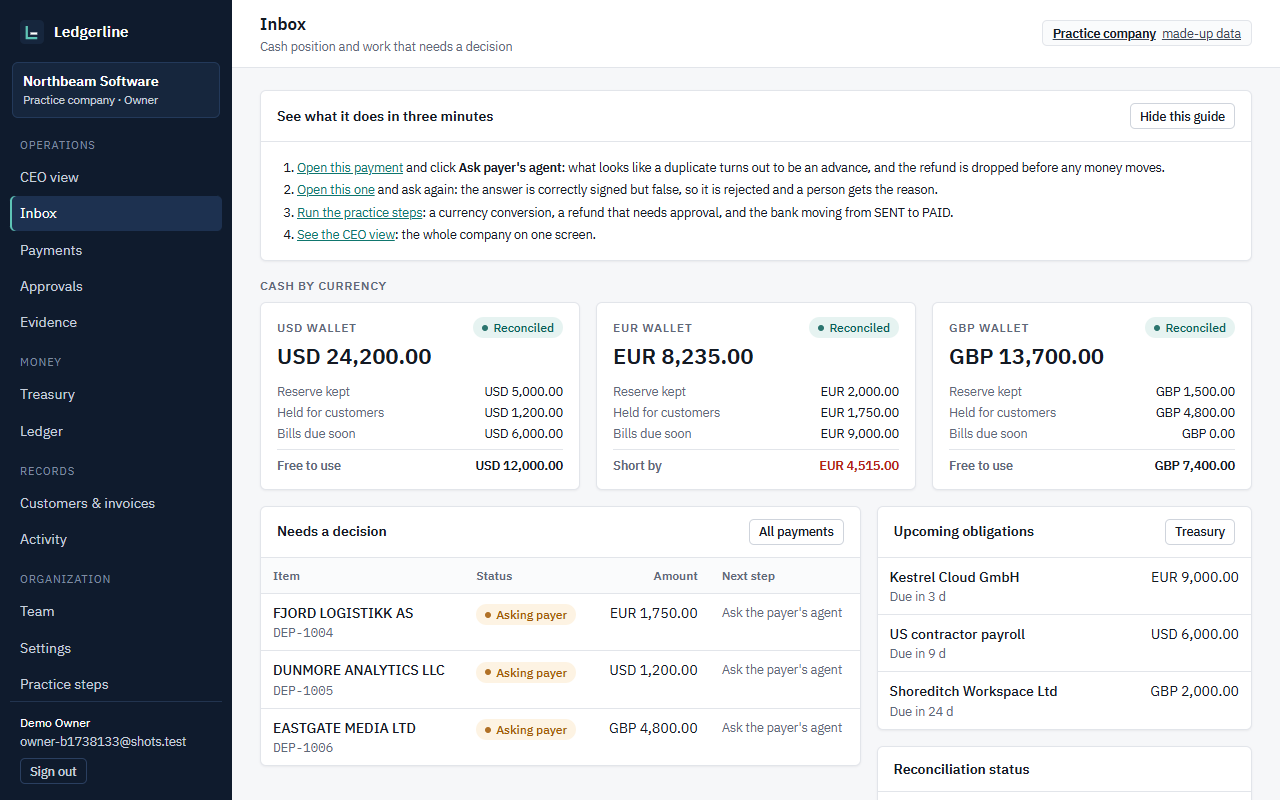
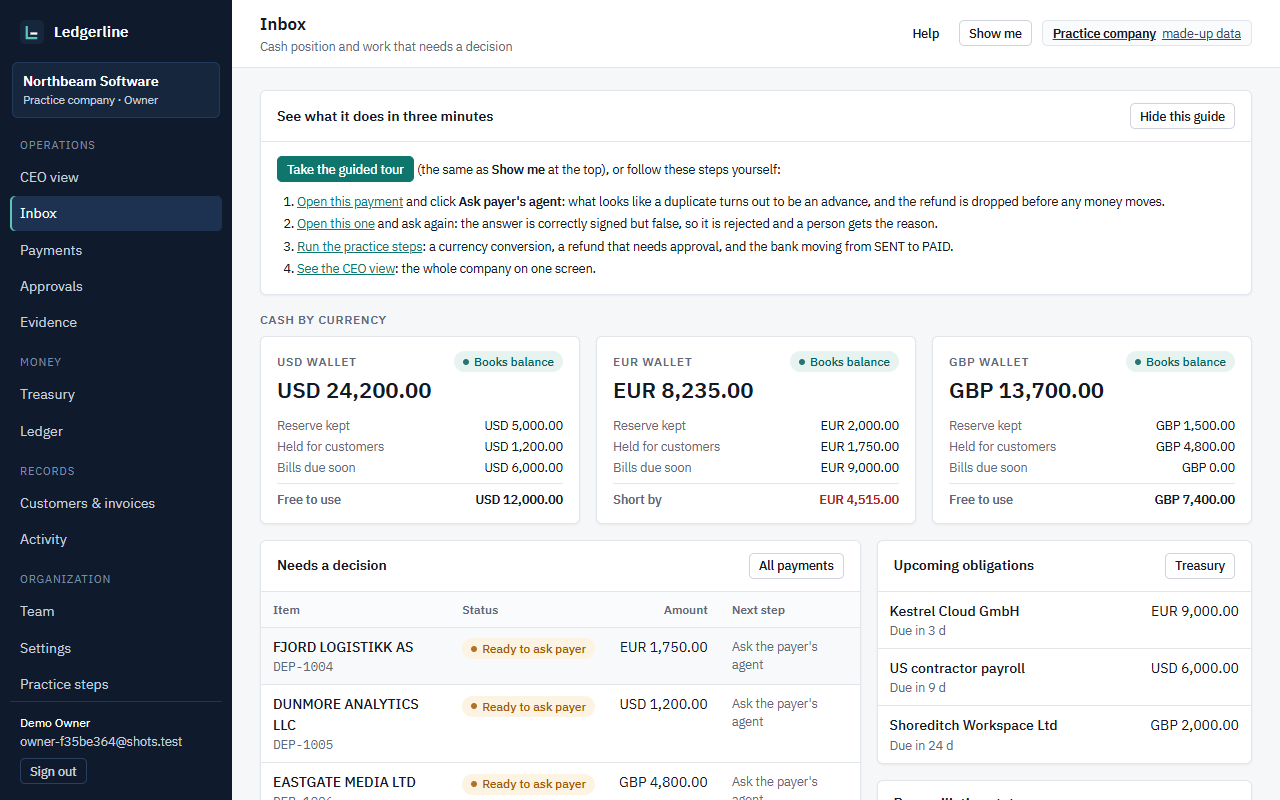
README screenshots from today's build
All eleven regenerated (SCREENSHOTS=1) and checked by eye: "Ready to ask
payer", times with the viewer's zone, the 5-minute assumption on the CEO
view, the guided-tour button. The capture script ran three fixed "Run"
clicks on Practice steps, but the practice bank now reports SENT and PAID
by itself after the send; it now runs only the steps still left.
Tracker #15.

diff --git a/frontend/e2e/screenshots.spec.ts b/frontend/e2e/screenshots.spec.ts
@@ -57,9 +57,9 @@ test("capture README screenshots", async ({ page }) => {
   await page.getByRole("button", { name: "Send as practice teammate" }).click();
   await expect(page.getByText(/The practice teammate sent refund/).first()).toBeVisible();
   await page.goto("/#/walkthrough");
-  await runNext(page); // record approval step
-  await runNext(page); // SENT
-  await runNext(page); // PAID
+  // Whatever is left of the story (the practice bank may already have reported SENT and PAID).
+  await page.waitForLoadState("networkidle");
+  for (let i = 0; i < 4 && (await page.getByRole("button", { name: "Run", exact: true }).count()) > 0; i++) await runNext(page);
   await shot(page, "08-walkthrough-done");
   await page.goto("/#/ledger");
   await shot(page, "09-ledger");

diff --git a/docs/ISSUE_TRACKER.md b/docs/ISSUE_TRACKER.md
@@ -25,7 +25,7 @@ docs, not built) · WONTFIX (decided, with the reason).
 | 12 | SUBMISSION_DRAFT L12 (private, grant access) contradicts step 10 (keep public) | Judge review | **FIXED** in `fdf271e`. One rule: public at submission until results |
 | 13 | The limits text appears three times, nearly verbatim | Judge review | **FIXED** in `ea5fff5`, `fdf271e`, `265707e`, `f2705ed`. One table on the README first screen; short summary and a link elsewhere; owner checklist in its own file |
 | 14 | No line on why the LLM does not decide, or what the payer gains | Judge review | **FIXED** in `ea5fff5` and `265707e`. One sentence each, README first screen and JUDGE_QA |
-| 15 | Screenshots date from 3 Nov; the UI changed on 5 Nov | Judge review | Regenerate and check each by eye |
+| 15 | Screenshots date from 3 Nov; the UI changed on 5 Nov | Judge review | **FIXED**: all 11 regenerated from the current build and checked by eye (Ready to ask payer, local times, 5-minute assumption, guided-tour button); the capture script now runs only the steps still left. Regenerate and check each by eye |
 | 16 | Safari: evidence download revokes the object URL immediately (`api.ts:97`) | Browser matrix #9 | **FIXED**: the link is added to the page, clicked, and removed with its object URL 30 s later. Attach the anchor to the page and revoke after a short delay |
 | 17 | Safari: dialog focus can escape (`ui.tsx`) | Browser matrix #10 | **FIXED**: a `focusin` guard brings focus back into the top-most open drawer or dialog (a stack handles a dialog over a drawer). focusout-based trap |
 | 18 | iOS before 16: the page behind a drawer scrolls | Browser matrix #11 | **FIXED**: the body is pinned with `position: fixed` at its scroll position while a drawer or dialog is open, and put back after the last one closes. Lock body scroll with `position: fixed` while open |
